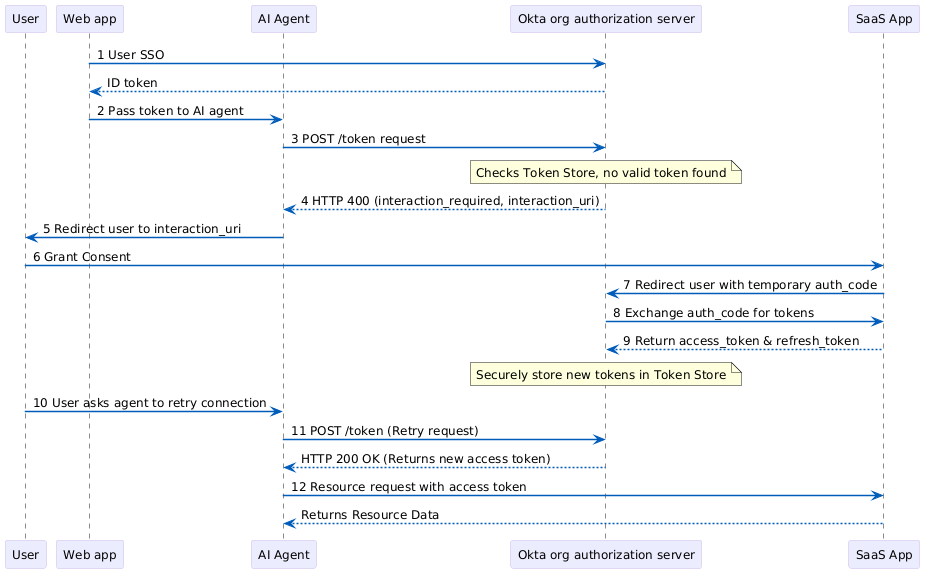
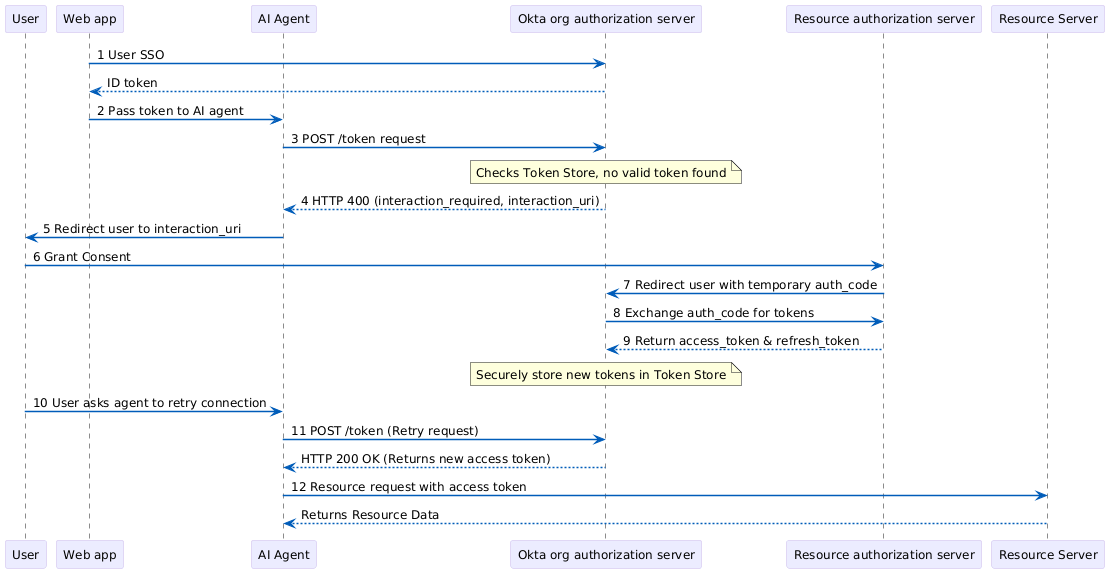
Updates with MCP server and API server fixes

diff --git a/packages/@okta/vuepress-theme-prose/util/frameworks.js b/packages/@okta/vuepress-theme-prose/util/frameworks.js
@@ -104,7 +104,7 @@ const COMMON_NAME_TO_FANCY_NAME = {
   authserver: 'Authorization server (ID-JAG)',
   secret: 'Secret',
   'service-account': 'Service account',
-  application: 'Application',
+  resourceserver: 'Resource server',
 };
 
 const COMMON_NAME_TO_ICON_NAME = {

diff --git a/packages/@okta/vuepress-site/docs/guides/ai-agent-token-exchange/main/authserver/exchange-token-id-request.md b/packages/@okta/vuepress-site/docs/guides/ai-agent-token-exchange/main/authserver/exchange-token-id-request.md
@@ -19,11 +19,11 @@ grant_type=urn:ietf:params:oauth:grant-type:token-exchange
 
 | Parameter | Description and value |
 | --- | --- |
-| grant_type | Standard OAuth 2.0 token exchange grant. The value must be `urn:ietf:params:oauth:grant-type:token-exchange` |
-| client_assertion_type | The value must be `urn:ietf:params:oauth:client-assertion-type:jwt-bearer` |
+| grant_type | Standard OAuth 2.0 token exchange grant. The value must be `urn:ietf:params:oauth:grant-type:token-exchange`. |
+| client_assertion_type | The value must be `urn:ietf:params:oauth:client-assertion-type:jwt-bearer`. |
 | client_assertion | A signed JWT used for client authentication. You must sign the JWT using the key created during the AI Agent registration. For more information on building the JWT, see [JWT with private key](https://developer.okta.com/docs/api/openapi/okta-oauth/guides/client-auth/#jwt-with-private-key). |
-| subject_token_type | The value must be `urn:ietf:params:oauth:token-type:id_token` |
+| subject_token_type | The value must be `urn:ietf:params:oauth:token-type:id_token`. |
 | subject_token | A valid ID token issued to the resource app associated with the AI agent. |
-| requested_token_type | The value must be `urn:ietf:params:oauth:token-type:id-jag` |
+| requested_token_type | The value must be `urn:ietf:params:oauth:token-type:id-jag`. |
 | scope | A list of scopes at the resource app being requested. This defines the permissions for the final access token. |
-| audience | The issuer URL of the resource app’s authorization server. |
+| audience | The issuer URL of the resource app's authorization server. |

diff --git a/packages/@okta/vuepress-site/docs/guides/ai-agent-token-exchange/main/secret/exchange-token-id-request.md b/packages/@okta/vuepress-site/docs/guides/ai-agent-token-exchange/main/secret/exchange-token-id-request.md
@@ -19,10 +19,10 @@ grant_type=urn:ietf:params:oauth:grant-type:token-exchange
 
 | Parameter | Description and value |
 | --- | --- |
-| grant_type | Standard OAuth 2.0 token exchange grant. The value must be `urn:ietf:params:oauth:grant-type:token-exchange` |
-| client_assertion_type | The value must be `urn:ietf:params:oauth:client-assertion-type:jwt-bearer` |
+| grant_type | Standard OAuth 2.0 token exchange grant. The value must be `urn:ietf:params:oauth:grant-type:token-exchange`. |
+| client_assertion_type | The value must be `urn:ietf:params:oauth:client-assertion-type:jwt-bearer`. |
 | client_assertion | A signed JWT used for client authentication. You must sign the JWT using the key created during the AI Agent registration. For more information on building the JWT, see [JWT with private key](https://developer.okta.com/docs/api/openapi/okta-oauth/guides/client-auth/#jwt-with-private-key). |
-| subject_token_type | The value must be `urn:ietf:params:oauth:token-type:id_token` |
+| subject_token_type | The value must be `urn:ietf:params:oauth:token-type:id_token`. |
 | subject_token | A valid ID token issued to the resource app associated with the AI agent. |
-| requested_token_type | The value must be `urn:okta:params:oauth:token-type:vaulted-secret` |
+| requested_token_type | The value must be `urn:okta:params:oauth:token-type:vaulted-secret`. |
 | resource | A resource identifier for the secret. This value must match the identifier configured on the **Managed Connection** tab. |

diff --git a/packages/@okta/vuepress-site/docs/guides/ai-agent-token-exchange/main/service-account/exchange-token-id-request.md b/packages/@okta/vuepress-site/docs/guides/ai-agent-token-exchange/main/service-account/exchange-token-id-request.md
@@ -19,10 +19,10 @@ grant_type=urn:ietf:params:oauth:grant-type:token-exchange
 
 | Parameter | Description and value |
 | --- | --- |
-| grant_type | Standard OAuth 2.0 token exchange grant. The value must be `urn:ietf:params:oauth:grant-type:token-exchange` |
-| client_assertion_type | The value must be `urn:ietf:params:oauth:client-assertion-type:jwt-bearer` |
+| grant_type | Standard OAuth 2.0 token exchange grant. The value must be `urn:ietf:params:oauth:grant-type:token-exchange`. |
+| client_assertion_type | The value must be `urn:ietf:params:oauth:client-assertion-type:jwt-bearer`. |
 | client_assertion | A signed JWT used for client authentication. You must sign the JWT using the key created during the AI Agent registration. For more information on building the JWT, see [JWT with private key](https://developer.okta.com/docs/api/openapi/okta-oauth/guides/client-auth/#jwt-with-private-key).|
-| subject_token_type | The value must be `urn:ietf:params:oauth:token-type:id_token` |
+| subject_token_type | The value must be `urn:ietf:params:oauth:token-type:id_token`. |
 | subject_token | A valid ID token issued to the resource app associated with the AI agent. |
-| requested_token_type | The value must be `urn:okta:params:oauth:token-type:service-account` |
+| requested_token_type | The value must be `urn:okta:params:oauth:token-type:service-account`. |
 | resource | A resource identifier for the service account. This value must match the identifier configured on the **Managed Connection** tab. |

diff --git a/packages/@okta/vuepress-site/docs/guides/ai-agent-token-exchange/main/index.md b/packages/@okta/vuepress-site/docs/guides/ai-agent-token-exchange/main/index.md
@@ -18,14 +18,14 @@ Learn how to configure token exchange for AI agents so you can securely request 
 - [Okta Integrator Free Plan org](https://developer.okta.com/signup)
 - An Okta user account with the super admin role.
 - [Register an AI agent](https://help.okta.com/okta_help.htm?type=oie&id=ai-agent-register) in your Okta org.
-- **Managed Connections** is configured for the AI agent, defining which resources it’s allowed to access. See [Secure an AI agent](https://help.okta.com/okta_help.htm?type=oie&id=ai-agent-secure).
+- **Managed Connections** is configured for the AI agent, defining which resources it's allowed to access. See [Secure an AI agent](https://help.okta.com/okta_help.htm?type=oie&id=ai-agent-secure).
 - An OIDC web app is configured to authenticate users and obtain an ID token.
 
 ---
 
 ## Overview
 
-You’ve [registered an AI agent](https://help.okta.com/okta_help.htm?type=oie&id=ai-agent-register). You have also defined its access to third-party resources integrated with your Okta org using **Managed Connections**. Now, the agent must obtain the actual tokens or credentials to perform tasks.
+You've [registered an AI agent](https://help.okta.com/okta_help.htm?type=oie&id=ai-agent-register). You have also defined its access to third-party resources integrated with your Okta org using **Managed Connections**. Now, the agent must obtain the actual tokens or credentials to perform tasks.
 
 You can [connect an AI agent](https://help.okta.com/okta_help.htm?type=oie&id=ai-agent-secure) to the following resource types:
 
@@ -35,7 +35,7 @@ You can [connect an AI agent](https://help.okta.com/okta_help.htm?type=oie&id=ai
 
 - Service account: Uses a static credential for an app that's specified in the Universal Directory. This resource is vaulted in Okta Privileged Access.
 
-- Application: Uses a third party access token issued by the third-party authorization server and brokered by Okta. This resource type requires user consent before an AI agent can act on behalf of the user.
+- Resource server: Uses a third party access token issued by the third-party authorization server and brokered by Okta. This resource type requires user consent before an AI agent can act on behalf of the user.
 
 Once the resource type is configured and the AI agent has the token or credentials, it can then perform tasks on the connected app.
 

diff --git a/packages/@okta/vuepress-site/docs/guides/ai-agent-token-exchange/main/authserver/token-exchange-flow.md b/packages/@okta/vuepress-site/docs/guides/ai-agent-token-exchange/main/authserver/token-exchange-flow.md
@@ -44,6 +44,6 @@ The token exchange flow for an AI agent involves the following steps:
 
 1. The user authenticates with the [Okta org authorization server](/docs/concepts/auth-servers/#org-authorization-server) using a web app. The server returns an ID token to the web app.
 1. The web app passes the ID token to the AI agent so that it can perform actions on the user's behalf.
-1. The AI agent sends the ID token to the org authorization server and requests an exchange fan ID-JAG. The server validates the request based on the configuration in the **Managed Connections** tab and returns the requested ID-JAG.
+1. The AI agent sends the ID token to the org authorization server and requests an exchange for an ID-JAG token. The server validates the request based on the configuration in the **Managed Connections** tab and returns the requested ID-JAG.
 1. Since the requested credential was an ID-JAG, the AI agent sends the ID-JAG to the [custom authorization server](/docs/concepts/auth-servers/#custom-authorization-server) to exchange it for a usable access token.
 1. The AI agent uses the access token to request access to the resource.

diff --git a/packages/@okta/vuepress-site/docs/guides/ai-agent-token-exchange/main/resourceserver/resource-type.md b/packages/@okta/vuepress-site/docs/guides/ai-agent-token-exchange/main/resourceserver/resource-type.md
@@ -1,0 +1,1 @@
+Resource server